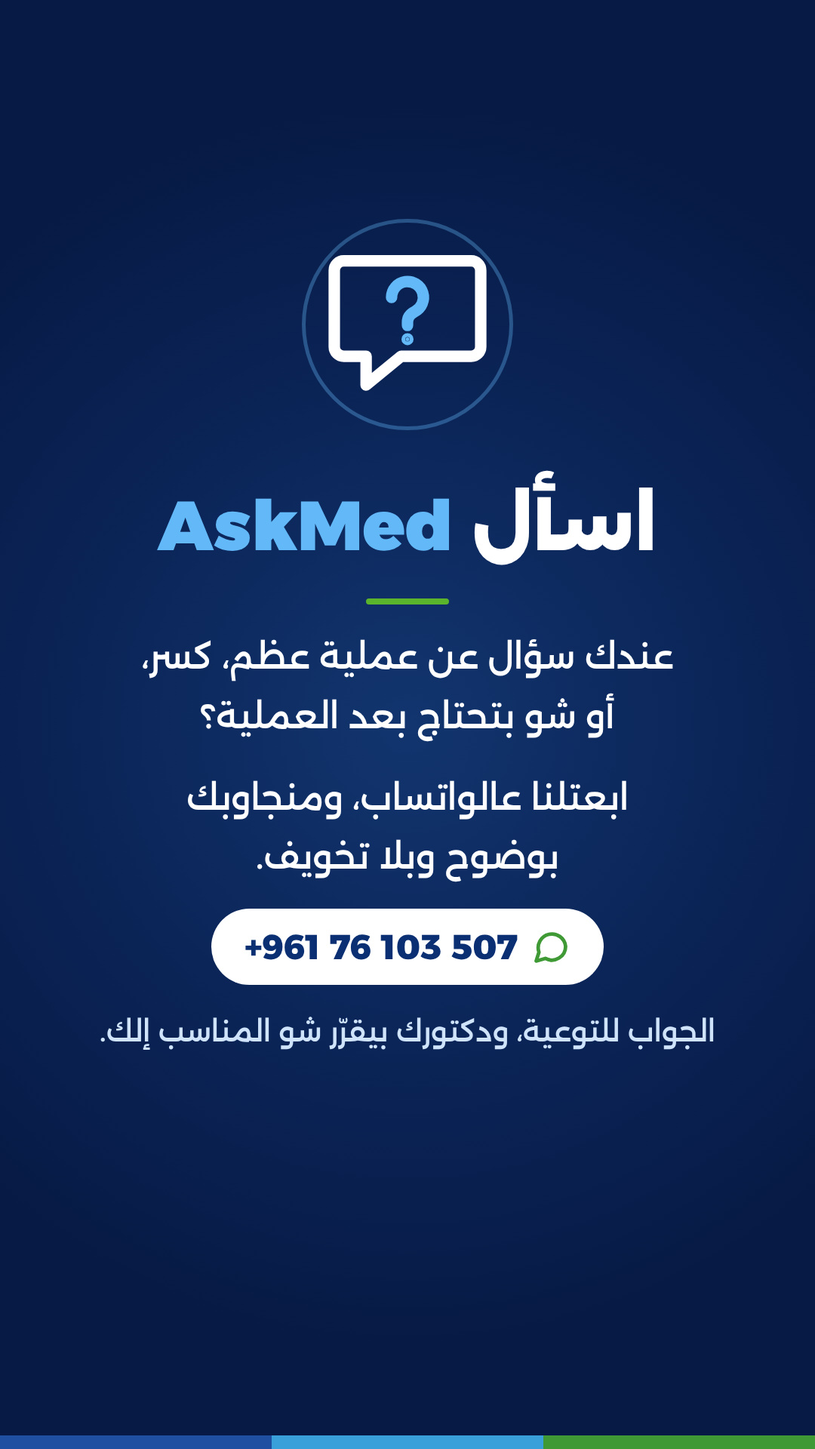
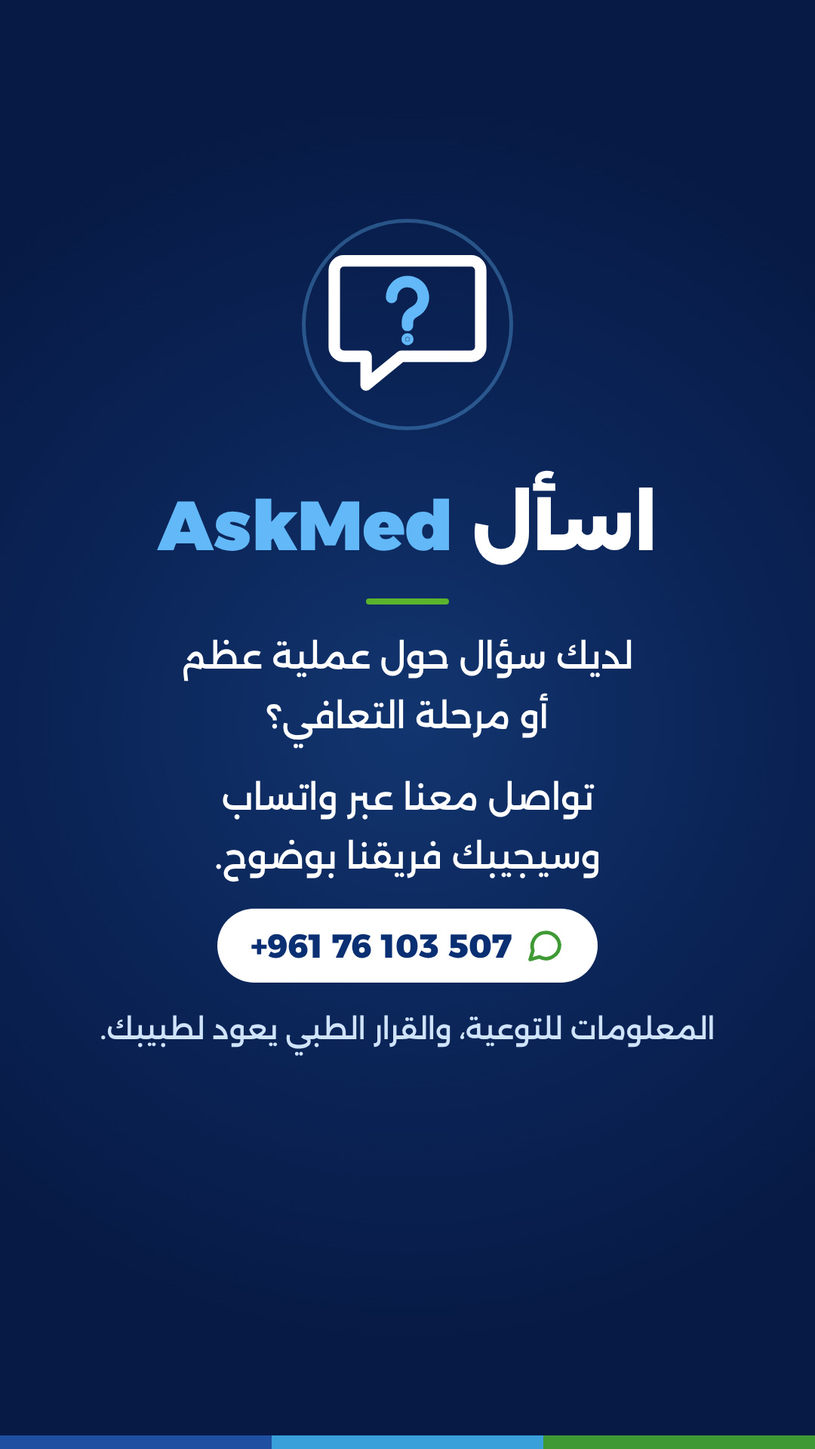
Add AskMed operating-room and recovery pinned posts in a professional tone
Versions G (navy) and H (white): the operating room on the right,
the brand in the middle, recovery with real product photos on the
left. The old family-friend tagline is gone from every version, and
the highlight stories are rewritten in formal Arabic.

Claude-Session: https://claude.ai/code/session_011gFdiWchE1AAy7uyGwssmg

Changed region(s): [[0.1222, 0.4375, 0.8861, 0.7188]]

diff --git a/askmed-instagram/source/compare.html b/askmed-instagram/source/compare.html
@@ -13,15 +13,17 @@
 .c b{font-size:21px;font-weight:600;color:#13213a;white-space:nowrap}
 </style></head><body>
 <div class="sheet" id="compare">
+<div class="v"><div class="h"><div class="k">G</div><div><div class="t">داخل غرفة العمليات، وبعدها خلال التعافي · كحلي</div><div class="d">الجراحة عاليمين، Askmed بالنص، والتعافي بمنتجات حقيقية عالشمال.</div></div></div><div class="grid"><img src="/home/user/invitation/askmed-instagram/versions/G-ghorfet-el-3amaliyyet-w-el-ta3afi/post-3_left.jpg" alt=""><img src="/home/user/invitation/askmed-instagram/versions/G-ghorfet-el-3amaliyyet-w-el-ta3afi/post-2_middle.jpg" alt=""><img src="/home/user/invitation/askmed-instagram/versions/G-ghorfet-el-3amaliyyet-w-el-ta3afi/post-1_right.jpg" alt=""></div></div>
+<div class="v"><div class="h"><div class="k">H</div><div><div class="t">نفس G · أبيض</div><div class="d">نفس الكلام والترتيب، بخلفية فاتحة متل صفحة الدكتورة.</div></div></div><div class="grid"><img src="/home/user/invitation/askmed-instagram/versions/H-ghorfet-el-3amaliyyet-w-el-ta3afi-abyad/post-3_left.jpg" alt=""><img src="/home/user/invitation/askmed-instagram/versions/H-ghorfet-el-3amaliyyet-w-el-ta3afi-abyad/post-2_middle.jpg" alt=""><img src="/home/user/invitation/askmed-instagram/versions/H-ghorfet-el-3amaliyyet-w-el-ta3afi-abyad/post-1_right.jpg" alt=""></div></div>
 <div class="v"><div class="h"><div class="k">A</div><div><div class="t">«اسأل Askmed» · كحلي</div><div class="d">الكلمة مقسومة عـ 3 متل اللوغو، وتحت كل وحدة معلومة.</div></div></div><div class="grid"><img src="/home/user/invitation/askmed-instagram/pinned/post-3_left.jpg" alt=""><img src="/home/user/invitation/askmed-instagram/pinned/post-2_middle.jpg" alt=""><img src="/home/user/invitation/askmed-instagram/pinned/post-1_right.jpg" alt=""></div></div>
-<div class="v"><div class="h"><div class="k">B</div><div><div class="t">«تعرّف على Askmed» · أبيض</div><div class="d">الأقرب لصفحة الدكتورة: أبيض، اسم كبير، وصورة عاليمين.</div></div></div><div class="grid"><img src="/home/user/invitation/askmed-instagram/versions/B-ta3arraf-3ala-askmed/post-3_left.jpg" alt=""><img src="/home/user/invitation/askmed-instagram/versions/B-ta3arraf-3ala-askmed/post-2_middle.jpg" alt=""><img src="/home/user/invitation/askmed-instagram/versions/B-ta3arraf-3ala-askmed/post-1_right.jpg" alt=""></div></div>
+<div class="v"><div class="h"><div class="k">B</div><div><div class="t">«تعرّف على Askmed» · أبيض</div><div class="d">أبيض، اسم كبير، وصورة أدوات جراحية عاليمين.</div></div></div><div class="grid"><img src="/home/user/invitation/askmed-instagram/versions/B-ta3arraf-3ala-askmed/post-3_left.jpg" alt=""><img src="/home/user/invitation/askmed-instagram/versions/B-ta3arraf-3ala-askmed/post-2_middle.jpg" alt=""><img src="/home/user/invitation/askmed-instagram/versions/B-ta3arraf-3ala-askmed/post-1_right.jpg" alt=""></div></div>
 <div class="v"><div class="h"><div class="k">C</div><div><div class="t">«من غرفة العمليات لحدّ ما ترجع تمشي»</div><div class="d">قصة بـ 3 مراحل، وخط بيوصل بيناتهن.</div></div></div><div class="grid"><img src="/home/user/invitation/askmed-instagram/versions/C-men-ghorfet-el-3amaliyyet/post-3_left.jpg" alt=""><img src="/home/user/invitation/askmed-instagram/versions/C-men-ghorfet-el-3amaliyyet/post-2_middle.jpg" alt=""><img src="/home/user/invitation/askmed-instagram/versions/C-men-ghorfet-el-3amaliyyet/post-1_right.jpg" alt=""></div></div>
 <div class="v"><div class="h"><div class="k">D</div><div><div class="t">«عندك سؤال؟ اسألنا.» · فاتح</div><div class="d">أسئلة متل اللي بتوصل عالواتساب، والجواب من Askmed.</div></div></div><div class="grid"><img src="/home/user/invitation/askmed-instagram/versions/D-3endak-so2al/post-3_left.jpg" alt=""><img src="/home/user/invitation/askmed-instagram/versions/D-3endak-so2al/post-2_middle.jpg" alt=""><img src="/home/user/invitation/askmed-instagram/versions/D-3endak-so2al/post-1_right.jpg" alt=""></div></div>
-<div class="v"><div class="h"><div class="k">E</div><div><div class="t">«خطوة بخطوة، معك.» · صورة وحدة عالـ 3</div><div class="d">صورة Higgsfield وحدة عريضة: من التخت، للـ walker، للمشي.</div></div></div><div class="grid"><img src="/home/user/invitation/askmed-instagram/versions/E-khotwe-b-khotwe/post-3_left.jpg" alt=""><img src="/home/user/invitation/askmed-instagram/versions/E-khotwe-b-khotwe/post-2_middle.jpg" alt=""><img src="/home/user/invitation/askmed-instagram/versions/E-khotwe-b-khotwe/post-1_right.jpg" alt=""></div></div>
+<div class="v"><div class="h"><div class="k">E</div><div><div class="t">«خطوة بخطوة، معك.» · صورة وحدة عالـ 3</div><div class="d">من التخت، للـ walker، للمشي.</div></div></div><div class="grid"><img src="/home/user/invitation/askmed-instagram/versions/E-khotwe-b-khotwe/post-3_left.jpg" alt=""><img src="/home/user/invitation/askmed-instagram/versions/E-khotwe-b-khotwe/post-2_middle.jpg" alt=""><img src="/home/user/invitation/askmed-instagram/versions/E-khotwe-b-khotwe/post-1_right.jpg" alt=""></div></div>
 <div class="v"><div class="h"><div class="k">F</div><div><div class="t">«خطوة بخطوة، معك.» · نفس E برجّال</div><div class="d">نفس الفكرة، والعكّازة بدل الـ walker.</div></div></div><div class="grid"><img src="/home/user/invitation/askmed-instagram/versions/F-khotwe-b-khotwe-rajol/post-3_left.jpg" alt=""><img src="/home/user/invitation/askmed-instagram/versions/F-khotwe-b-khotwe-rajol/post-2_middle.jpg" alt=""><img src="/home/user/invitation/askmed-instagram/versions/F-khotwe-b-khotwe-rajol/post-1_right.jpg" alt=""></div></div>
 </div>
 <div class="sheet" id="hlstyles">
-<div class="v"><div class="h"><div class="k">1</div><div><div class="t">highlights · كحلي</div></div></div><div class="row"><div class="c"><div class="ring"><div style="background-image:url(/home/user/invitation/askmed-instagram/highlights/covers/1-min-nehna.jpg)"></div></div><b>مين نحنا</b></div><div class="c"><div class="ring"><div style="background-image:url(/home/user/invitation/askmed-instagram/highlights/covers/2-el-montajet.jpg)"></div></div><b>المنتجات</b></div><div class="c"><div class="ring"><div style="background-image:url(/home/user/invitation/askmed-instagram/highlights/covers/3-is2alna.jpg)"></div></div><b>اسألنا</b></div><div class="c"><div class="ring"><div style="background-image:url(/home/user/invitation/askmed-instagram/highlights/covers/4-el-2iyesat.jpg)"></div></div><b>القياسات</b></div><div class="c"><div class="ring"><div style="background-image:url(/home/user/invitation/askmed-instagram/highlights/covers/5-el-tawsil.jpg)"></div></div><b>التوصيل</b></div><div class="c"><div class="ring"><div style="background-image:url(/home/user/invitation/askmed-instagram/highlights/covers/6-wen-nehna.jpg)"></div></div><b>وين نحنا</b></div></div></div>
-<div class="v"><div class="h"><div class="k">2</div><div><div class="t">highlights · أبيض</div></div></div><div class="row"><div class="c"><div class="ring"><div style="background-image:url(/home/user/invitation/askmed-instagram/highlights/covers-white/1-min-nehna.jpg)"></div></div><b>مين نحنا</b></div><div class="c"><div class="ring"><div style="background-image:url(/home/user/invitation/askmed-instagram/highlights/covers-white/2-el-montajet.jpg)"></div></div><b>المنتجات</b></div><div class="c"><div class="ring"><div style="background-image:url(/home/user/invitation/askmed-instagram/highlights/covers-white/3-is2alna.jpg)"></div></div><b>اسألنا</b></div><div class="c"><div class="ring"><div style="background-image:url(/home/user/invitation/askmed-instagram/highlights/covers-white/4-el-2iyesat.jpg)"></div></div><b>القياسات</b></div><div class="c"><div class="ring"><div style="background-image:url(/home/user/invitation/askmed-instagram/highlights/covers-white/5-el-tawsil.jpg)"></div></div><b>التوصيل</b></div><div class="c"><div class="ring"><div style="background-image:url(/home/user/invitation/askmed-instagram/highlights/covers-white/6-wen-nehna.jpg)"></div></div><b>وين نحنا</b></div></div></div>
-<div class="v"><div class="h"><div class="k">3</div><div><div class="t">highlights · أزرق</div></div></div><div class="row"><div class="c"><div class="ring"><div style="background-image:url(/home/user/invitation/askmed-instagram/highlights/covers-blue/1-min-nehna.jpg)"></div></div><b>مين نحنا</b></div><div class="c"><div class="ring"><div style="background-image:url(/home/user/invitation/askmed-instagram/highlights/covers-blue/2-el-montajet.jpg)"></div></div><b>المنتجات</b></div><div class="c"><div class="ring"><div style="background-image:url(/home/user/invitation/askmed-instagram/highlights/covers-blue/3-is2alna.jpg)"></div></div><b>اسألنا</b></div><div class="c"><div class="ring"><div style="background-image:url(/home/user/invitation/askmed-instagram/highlights/covers-blue/4-el-2iyesat.jpg)"></div></div><b>القياسات</b></div><div class="c"><div class="ring"><div style="background-image:url(/home/user/invitation/askmed-instagram/highlights/covers-blue/5-el-tawsil.jpg)"></div></div><b>التوصيل</b></div><div class="c"><div class="ring"><div style="background-image:url(/home/user/invitation/askmed-instagram/highlights/covers-blue/6-wen-nehna.jpg)"></div></div><b>وين نحنا</b></div></div></div>
+<div class="v"><div class="h"><div class="k">1</div><div><div class="t">highlights · كحلي</div></div></div><div class="row"><div class="c"><div class="ring"><div style="background-image:url(/home/user/invitation/askmed-instagram/highlights/covers/1-min-nehna.jpg)"></div></div><b>من نحن</b></div><div class="c"><div class="ring"><div style="background-image:url(/home/user/invitation/askmed-instagram/highlights/covers/2-el-montajet.jpg)"></div></div><b>المنتجات</b></div><div class="c"><div class="ring"><div style="background-image:url(/home/user/invitation/askmed-instagram/highlights/covers/3-is2alna.jpg)"></div></div><b>اسألنا</b></div><div class="c"><div class="ring"><div style="background-image:url(/home/user/invitation/askmed-instagram/highlights/covers/4-el-2iyesat.jpg)"></div></div><b>المقاسات</b></div><div class="c"><div class="ring"><div style="background-image:url(/home/user/invitation/askmed-instagram/highlights/covers/5-el-tawsil.jpg)"></div></div><b>التوصيل</b></div><div class="c"><div class="ring"><div style="background-image:url(/home/user/invitation/askmed-instagram/highlights/covers/6-wen-nehna.jpg)"></div></div><b>موقعنا</b></div></div></div>
+<div class="v"><div class="h"><div class="k">2</div><div><div class="t">highlights · أبيض</div></div></div><div class="row"><div class="c"><div class="ring"><div style="background-image:url(/home/user/invitation/askmed-instagram/highlights/covers-white/1-min-nehna.jpg)"></div></div><b>من نحن</b></div><div class="c"><div class="ring"><div style="background-image:url(/home/user/invitation/askmed-instagram/highlights/covers-white/2-el-montajet.jpg)"></div></div><b>المنتجات</b></div><div class="c"><div class="ring"><div style="background-image:url(/home/user/invitation/askmed-instagram/highlights/covers-white/3-is2alna.jpg)"></div></div><b>اسألنا</b></div><div class="c"><div class="ring"><div style="background-image:url(/home/user/invitation/askmed-instagram/highlights/covers-white/4-el-2iyesat.jpg)"></div></div><b>المقاسات</b></div><div class="c"><div class="ring"><div style="background-image:url(/home/user/invitation/askmed-instagram/highlights/covers-white/5-el-tawsil.jpg)"></div></div><b>التوصيل</b></div><div class="c"><div class="ring"><div style="background-image:url(/home/user/invitation/askmed-instagram/highlights/covers-white/6-wen-nehna.jpg)"></div></div><b>موقعنا</b></div></div></div>
+<div class="v"><div class="h"><div class="k">3</div><div><div class="t">highlights · أزرق</div></div></div><div class="row"><div class="c"><div class="ring"><div style="background-image:url(/home/user/invitation/askmed-instagram/highlights/covers-blue/1-min-nehna.jpg)"></div></div><b>من نحن</b></div><div class="c"><div class="ring"><div style="background-image:url(/home/user/invitation/askmed-instagram/highlights/covers-blue/2-el-montajet.jpg)"></div></div><b>المنتجات</b></div><div class="c"><div class="ring"><div style="background-image:url(/home/user/invitation/askmed-instagram/highlights/covers-blue/3-is2alna.jpg)"></div></div><b>اسألنا</b></div><div class="c"><div class="ring"><div style="background-image:url(/home/user/invitation/askmed-instagram/highlights/covers-blue/4-el-2iyesat.jpg)"></div></div><b>المقاسات</b></div><div class="c"><div class="ring"><div style="background-image:url(/home/user/invitation/askmed-instagram/highlights/covers-blue/5-el-tawsil.jpg)"></div></div><b>التوصيل</b></div><div class="c"><div class="ring"><div style="background-image:url(/home/user/invitation/askmed-instagram/highlights/covers-blue/6-wen-nehna.jpg)"></div></div><b>موقعنا</b></div></div></div>
 </div></body></html>

diff --git a/askmed-instagram/source/pro.html b/askmed-instagram/source/pro.html
@@ -1,0 +1,179 @@
+<!doctype html>
+<html lang="ar" dir="rtl">
+<head>
+<meta charset="utf-8">
+<link href="https://fonts.googleapis.com/css2?family=Alexandria:wght@400;500;600;700;800;900&display=swap" rel="stylesheet">
+<style>
+  :root { --deep: #02164a; --ink: #0A2F72; --logo-navy: #0A4A9C; --logo-sky: #2F9FE4; --sky: #63B8F7; --green: #5BB52C; --soft: #CFE3FA; }
+  * { box-sizing: border-box; }
+  html, body { margin: 0; padding: 0; background: #000; }
+  .pano { position: relative; width: 3240px; height: 1440px; overflow: hidden; font-family: 'Alexandria', sans-serif; }
+  .abs { position: absolute; }
+  .ltr { direction: ltr; unicode-bidi: isolate; }
+  .tile { position: absolute; top: 0; width: 1080px; height: 1440px; }
+  .icon { position: absolute; top: 74px; height: 96px; }
+  .eyebrow { position: absolute; top: 190px; width: 1080px; padding: 0 100px; text-align: right; font-size: 40px; font-weight: 700; letter-spacing: 0; }
+  .eyebrow span { display: inline-flex; align-items: center; gap: 14px; }
+  .eyebrow i { display: inline-block; width: 46px; height: 6px; border-radius: 3px; }
+  .head { position: absolute; top: 250px; width: 1080px; padding: 0 100px; text-align: right; font-weight: 900; font-size: 112px; line-height: 1.3; white-space: nowrap; }
+  .list { position: absolute; width: 1080px; padding: 0 100px; display: flex; flex-direction: column; gap: 20px; }
+  .list div { display: flex; align-items: center; gap: 22px; font-size: 42px; font-weight: 600; line-height: 1.45; }
+  .list b { flex: 0 0 auto; width: 18px; height: 18px; border-radius: 50%; }
+  .cards { position: absolute; width: 1080px; padding: 0 100px; display: grid; grid-template-columns: 1fr 1fr; gap: 26px; }
+  .card { border-radius: 30px; overflow: hidden; }
+  .card img { width: 100%; height: 222px; object-fit: cover; display: block; }
+  .card div { padding: 14px 20px 18px; font-size: 34px; font-weight: 700; text-align: center; }
+  .note { position: absolute; width: 1080px; padding: 0 100px; text-align: right; font-size: 34px; font-weight: 500; }
+  .center { position: absolute; left: 1080px; width: 1080px; display: flex; flex-direction: column; align-items: center; text-align: center; }
+  .center .lock { display: flex; align-items: center; gap: 24px; direction: ltr; }
+  .center .lock .i { height: 170px; }
+  .center .lock .w { height: 118px; }
+  .center .rule { width: 120px; height: 8px; border-radius: 4px; margin: 54px 0 46px; }
+  .center .line { font-size: 58px; font-weight: 800; line-height: 1.55; }
+  .center .en { margin-top: 30px; font-size: 34px; font-weight: 600; letter-spacing: 0.5px; }
+  .flow { position: absolute; left: 1080px; width: 1080px; top: 1060px; display: flex; align-items: center; justify-content: center; gap: 26px; font-size: 38px; font-weight: 700; }
+  .flow .pill { border-radius: 999px; padding: 16px 34px; }
+  .bar { position: absolute; left: 0; right: 0; bottom: 0; height: 130px; }
+  .cell { position: absolute; top: 0; height: 118px; width: 1080px; display: flex; align-items: center; justify-content: center; gap: 20px; white-space: nowrap; font-weight: 700; font-size: 38px; }
+  .sep { width: 8px; height: 8px; border-radius: 50%; background: #3aa0da; }
+  .stripe { position: absolute; left: 0; right: 0; bottom: 0; height: 12px; display: flex; direction: ltr; }
+  .stripe div { flex: 1; }
+
+  /* ---------- G · navy ---------- */
+  #G { background: var(--deep); color: #fff; }
+  #G .t1 { left: 0; background: radial-gradient(circle at 50% 60%, #0a2a6e 0%, #04195a 45%, #02164a 85%); }
+  #G .t2 { left: 1080px; background: radial-gradient(circle at 50% 45%, #0c2f78 0%, #05205f 42%, #02164a 82%); }
+  #G .t3 { left: 2160px; background: #011035; }
+  #G .photo { position: absolute; left: 2160px; top: 110px; width: 1080px; height: 1446px; }
+  #G .shade { position: absolute; left: 2160px; top: 0; width: 1080px; height: 1440px;
+              background: linear-gradient(to bottom, rgba(2,15,51,0.9) 0%, rgba(2,15,51,0.55) 28%, rgba(2,15,51,0) 40%, rgba(2,15,51,0) 58%, rgba(2,15,51,0.92) 76%); }
+  #G .eyebrow { color: var(--sky); }
+  #G .eyebrow i { background: var(--sky); }
+  #G .acc { color: var(--sky); }
+  #G .list b { background: var(--green); }
+  #G .card { background: #fff; color: var(--ink); }
+  #G .note { color: var(--soft); }
+  #G .center .rule { background: var(--green); }
+  #G .center .en { color: var(--sky); }
+  #G .flow .pill { background: rgba(99,184,247,0.14); border: 2px solid rgba(99,184,247,0.5); }
+  #G .bar { background: #fff; color: var(--ink); }
+
+  /* ---------- H · white ---------- */
+  #H { background: #fff; color: var(--ink); }
+  #H .t1 { left: 0; background: #F4F8FD; }
+  #H .t2 { left: 1080px; background: #fff; }
+  #H .t3 { left: 2160px; background: #eaf1f8; }
+  #H .photo { position: absolute; left: 2160px; top: 110px; width: 1080px; height: 1446px; }
+  #H .shade { position: absolute; left: 2160px; top: 0; width: 1080px; height: 1440px;
+              background: linear-gradient(to bottom, rgba(255,255,255,0.95) 0%, rgba(255,255,255,0.6) 28%, rgba(255,255,255,0) 40%, rgba(255,255,255,0) 58%, rgba(255,255,255,0.94) 76%); }
+  #H .eyebrow { color: var(--logo-sky); }
+  #H .eyebrow i { background: var(--logo-sky); }
+  #H .acc { color: var(--logo-sky); }
+  #H .list b { background: var(--green); }
+  #H .card { background: #fff; color: var(--ink); box-shadow: 0 18px 40px -24px rgba(10,47,114,0.45); }
+  #H .note { color: #4a5d7e; }
+  #H .center .rule { background: var(--green); }
+  #H .center .en { color: var(--logo-sky); }
+  #H .flow .pill { background: #EEF6FD; border: 2px solid #CFE3FA; }
+  #H .bar { background: var(--ink); color: #fff; }
+</style>
+</head>
+<body>
+
+<!-- ======================= G ======================= -->
+<div class="pano" id="G">
+  <div class="tile t1"></div>
+  <div class="tile t2"></div>
+  <div class="tile t3"></div>
+  <img class="photo" src="assets/or-dark.jpg" alt="">
+  <div class="shade"></div>
+
+  <img class="icon" src="assets/icon-white.png" alt="" style="left: 72px">
+  <img class="icon" src="assets/icon-white.png" alt="" style="left: 2232px">
+
+  <!-- tile 3: in the operating room -->
+  <div class="eyebrow" style="left: 2160px"><span><i></i>الجراحة</span></div>
+  <div class="head" style="left: 2160px">داخل<br><span class="acc">غرفة العمليات</span></div>
+  <div class="list" style="left: 2160px; top: 980px;">
+    <div><b></b>زرعات وأدوات جراحة العظام</div>
+    <div><b></b>تجهيز الأطقم الجراحية لكل حالة</div>
+    <div><b></b>دعم فني للجرّاح أثناء العملية</div>
+  </div>
+
+  <!-- tile 2: the brand -->
+  <div class="center" style="top: 330px;">
+    <div class="lock"><img class="i" src="assets/icon-white.png" alt=""><img class="w" src="assets/wordmark-white.png" alt="Askmed"></div>
+    <div class="rule"></div>
+    <div class="line">شريك الجرّاح في غرفة العمليات<br>وشريك المريض في التعافي</div>
+    <div class="en ltr">Orthopaedic surgery &amp; recovery · Since 2006</div>
+  </div>
+  <div class="flow"><span class="pill">الجراحة</span><svg width="70" height="30" viewBox="0 0 70 30" aria-hidden="true"><path d="M66 15H6M18 4 5 15l13 11" fill="none" stroke="#63B8F7" stroke-width="4" stroke-linecap="round" stroke-linejoin="round"/></svg><span class="pill">التعافي</span></div>
+
+  <!-- tile 1: after surgery -->
+  <div class="eyebrow" style="left: 0"><span><i></i>التعافي</span></div>
+  <div class="head" style="left: 0;">وبعد العملية<br><span class="acc">خلال التعافي</span></div>
+  <div class="cards" style="left: 0; top: 600px;">
+    <div class="card"><img src="assets/p-knee.jpg" alt=""><div>دعامات الركبة</div></div>
+    <div class="card"><img src="assets/p-back.jpg" alt="" style="object-position: 50% 30%"><div>مشدّات الظهر</div></div>
+    <div class="card"><img src="assets/p-neck.jpg" alt="" style="object-position: 50% 45%"><div>أطواق الرقبة</div></div>
+    <div class="card"><img src="assets/p-wrist.jpg" alt=""><div>دعامات المعصم</div></div>
+  </div>
+
+  <div class="bar">
+    <div class="cell" style="left: 0"><span class="ltr">@askmedlb</span><span class="sep"></span><span class="ltr" style="font-weight:500">askmedlb.com</span></div>
+    <div class="cell" style="left: 1080px">
+      <svg width="42" height="42" viewBox="0 0 24 24" fill="none" stroke="#3f9a35" stroke-width="2.2" stroke-linecap="round" stroke-linejoin="round" aria-hidden="true"><path d="M21 11.5a8.4 8.4 0 0 1-12.4 7.4L3 20.5l1.7-5.4A8.4 8.4 0 1 1 21 11.5z"></path></svg>
+      <span class="ltr">+961 76 103 507</span></div>
+    <div class="cell" style="left: 2160px"><span>جراحة العظام والتعافي</span><span class="sep"></span><span style="font-weight:500">منذ 2006</span></div>
+    <div class="stripe"><div style="background:#1f4fa0"></div><div style="background:#3aa0da"></div><div style="background:#3f9a35"></div></div>
+  </div>
+</div>
+
+<!-- ======================= H ======================= -->
+<div class="pano" id="H">
+  <div class="tile t1"></div>
+  <div class="tile t2"></div>
+  <div class="tile t3"></div>
+  <img class="photo" src="assets/or-light.jpg" alt="">
+  <div class="shade"></div>
+
+  <img class="icon" src="assets/icon-dark.png" alt="" style="left: 72px">
+  <img class="icon" src="assets/icon-dark.png" alt="" style="left: 2232px">
+
+  <div class="eyebrow" style="left: 2160px"><span><i></i>الجراحة</span></div>
+  <div class="head" style="left: 2160px">داخل<br><span class="acc">غرفة العمليات</span></div>
+  <div class="list" style="left: 2160px; top: 980px;">
+    <div><b></b>زرعات وأدوات جراحة العظام</div>
+    <div><b></b>تجهيز الأطقم الجراحية لكل حالة</div>
+    <div><b></b>دعم فني للجرّاح أثناء العملية</div>
+  </div>
+
+  <div class="center" style="top: 330px;">
+    <div class="lock"><img class="i" src="assets/icon-dark.png" alt=""><img class="w" src="assets/wordmark-dark.png" alt="Askmed"></div>
+    <div class="rule"></div>
+    <div class="line">شريك الجرّاح في غرفة العمليات<br>وشريك المريض في التعافي</div>
+    <div class="en ltr">Orthopaedic surgery &amp; recovery · Since 2006</div>
+  </div>
+  <div class="flow"><span class="pill">الجراحة</span><svg width="70" height="30" viewBox="0 0 70 30" aria-hidden="true"><path d="M66 15H6M18 4 5 15l13 11" fill="none" stroke="#2F9FE4" stroke-width="4" stroke-linecap="round" stroke-linejoin="round"/></svg><span class="pill">التعافي</span></div>
+
+  <div class="eyebrow" style="left: 0"><span><i></i>التعافي</span></div>
+  <div class="head" style="left: 0;">وبعد العملية<br><span class="acc">خلال التعافي</span></div>
+  <div class="cards" style="left: 0; top: 600px;">
+    <div class="card"><img src="assets/p-knee.jpg" alt=""><div>دعامات الركبة</div></div>
+    <div class="card"><img src="assets/p-back.jpg" alt="" style="object-position: 50% 30%"><div>مشدّات الظهر</div></div>
+    <div class="card"><img src="assets/p-neck.jpg" alt="" style="object-position: 50% 45%"><div>أطواق الرقبة</div></div>
+    <div class="card"><img src="assets/p-wrist.jpg" alt=""><div>دعامات المعصم</div></div>
+  </div>
+
+  <div class="bar">
+    <div class="cell" style="left: 0"><span class="ltr">@askmedlb</span><span class="sep"></span><span class="ltr" style="font-weight:500">askmedlb.com</span></div>
+    <div class="cell" style="left: 1080px">
+      <svg width="42" height="42" viewBox="0 0 24 24" fill="none" stroke="#7fd174" stroke-width="2.2" stroke-linecap="round" stroke-linejoin="round" aria-hidden="true"><path d="M21 11.5a8.4 8.4 0 0 1-12.4 7.4L3 20.5l1.7-5.4A8.4 8.4 0 1 1 21 11.5z"></path></svg>
+      <span class="ltr">+961 76 103 507</span></div>
+    <div class="cell" style="left: 2160px"><span>جراحة العظام والتعافي</span><span class="sep"></span><span style="font-weight:500">منذ 2006</span></div>
+    <div class="stripe"><div style="background:#1f4fa0"></div><div style="background:#3aa0da"></div><div style="background:#3f9a35"></div></div>
+  </div>
+</div>
+
+</body>
+</html>

diff --git a/askmed-instagram/source/highlights.html b/askmed-instagram/source/highlights.html
@@ -52,7 +52,7 @@
   .story li .d { flex: 0 0 auto; width: 20px; height: 20px; border-radius: 50%; background: var(--green); }
   .pill {
     display: inline-flex; align-items: center; gap: 18px; background: #fff; color: var(--ink);
-    border-radius: 999px; padding: 22px 44px; font-size: 46px; font-weight: 800;
+    border-radius: 999px; padding: 22px 44px; font-size: 44px; font-weight: 800; white-space: nowrap;
   }
   .ltr { direction: ltr; unicode-bidi: isolate; }
   .foot {
@@ -107,11 +107,11 @@
 <div class="frame story">
   <div class="badge"><img src="assets/icon-white.png" alt=""></div>
   <div class="body">
-    <h1>مين <span class="acc ltr">AskMed</span>؟</h1>
+    <h1>من <span class="acc">نحن</span></h1>
     <div class="rule"></div>
-    <p>من 2006 مع دكاترة الشمال<br>بغرفة العمليات.</p>
-    <p>ومعك بالبيت كمان: مشدّات ومخدّات<br>طبية للتعافي، وناس بتعرف تنصحك.</p>
-    <p class="small">صاحب العيلة اللي بيفهم بالعظم.</p>
+    <p>منذ 2006، نزوّد جرّاحي العظام بالزرعات<br>والأدوات الجراحية داخل غرفة العمليات.</p>
+    <p>وبعد العملية، نوفّر مستلزمات التعافي<br>مع مساعدة في اختيار المقاس المناسب.</p>
+    <p class="small">جراحة العظام والتعافي · طرابلس، لبنان</p>
   </div>
   <div class="foot"><img class="i" src="assets/icon-white.png" alt=""><img class="w" src="assets/wordmark-white.png" alt="Askmed"></div>
   <div class="stripe"><div style="background:#1f4fa0"></div><div style="background:#3aa0da"></div><div style="background:#3f9a35"></div></div>
@@ -121,16 +121,16 @@
 <div class="frame story">
   <div class="badge"><svg viewBox="0 0 64 64" fill="none" stroke="#fff" stroke-width="3.6" stroke-linecap="round" stroke-linejoin="round" aria-hidden="true"><path d="M13 22h38l-3.2 32.5a2 2 0 0 1-2 1.8H18.2a2 2 0 0 1-2-1.8z"/><path d="M24 26v-7a8 8 0 0 1 16 0v7"/><path d="M27 40l4 4 7-8" stroke="#5BB52C"/></svg></div>
   <div class="body">
-    <h1>شو <span class="acc">عنّا؟</span></h1>
+    <h1><span class="acc">منتجاتنا</span></h1>
     <div class="rule"></div>
     <ul>
       <li><span class="d"></span><span>الرقبة</span></li>
-      <li><span class="d"></span><span>الضهر والعمود الفقري</span></li>
-      <li><span class="d"></span><span>من الكتف لليد</span></li>
-      <li><span class="d"></span><span>الرجل والساق</span></li>
-      <li><span class="d"></span><span>مخدّات وفرشات طبية</span></li>
+      <li><span class="d"></span><span>الظهر والعمود الفقري</span></li>
+      <li><span class="d"></span><span>الكتف واليد</span></li>
+      <li><span class="d"></span><span>الركبة والساق</span></li>
+      <li><span class="d"></span><span>المخدّات الطبية</span></li>
     </ul>
-    <div class="pill"><span>كل المنتجات عـ</span><span class="ltr">askmedlb.com</span></div>
+    <div class="pill"><span>جميع المنتجات على</span><span class="ltr">askmedlb.com</span></div>
   </div>
   <div class="stripe"><div style="background:#1f4fa0"></div><div style="background:#3aa0da"></div><div style="background:#3f9a35"></div></div>
 </div>
@@ -141,10 +141,10 @@
   <div class="body">
     <h1>اسأل <span class="acc ltr">AskMed</span></h1>
     <div class="rule"></div>
-    <p>عندك سؤال عن عملية عظم، كسر،<br>أو شو بتحتاج بعد العملية؟</p>
-    <p>ابعتلنا عالواتساب، ومنجاوبك<br>بوضوح وبلا تخويف.</p>
+    <p>لديك سؤال حول عملية عظم<br>أو مرحلة التعافي؟</p>
+    <p>تواصل معنا عبر واتساب<br>وسيجيبك فريقنا بوضوح.</p>
     <div class="pill"><svg width="52" height="52" viewBox="0 0 24 24" fill="none" stroke="#3f9a35" stroke-width="2.2" stroke-linecap="round" stroke-linejoin="round" aria-hidden="true"><path d="M21 11.5a8.4 8.4 0 0 1-12.4 7.4L3 20.5l1.7-5.4A8.4 8.4 0 1 1 21 11.5z"></path></svg><span class="ltr">+961 76 103 507</span></div>
-    <p class="small">الجواب للتوعية، ودكتورك بيقرّر شو المناسب إلك.</p>
+    <p class="small">المعلومات للتوعية، والقرار الطبي يعود لطبيبك.</p>
   </div>
   <div class="stripe"><div style="background:#1f4fa0"></div><div style="background:#3aa0da"></div><div style="background:#3f9a35"></div></div>
 </div>
@@ -153,14 +153,14 @@
 <div class="frame story">
   <div class="badge"><svg viewBox="0 0 64 64" fill="none" stroke="#fff" stroke-width="3.6" stroke-linecap="round" stroke-linejoin="round" aria-hidden="true"><path d="M8 44L44 8l12 12-36 36z"/><path d="M16.2 35.8l5 5M27.2 24.8l5 5M38.2 13.8l5 5" stroke="#5BB52C"/><path d="M21.7 30.3l3 3M32.7 19.3l3 3" stroke="#63B8F7"/></svg></div>
   <div class="body">
-    <h1>كيف تعرف <span class="acc">قياسك؟</span></h1>
+    <h1>اختيار <span class="acc">المقاس</span></h1>
     <div class="rule"></div>
     <ul>
-      <li><span class="n">1</span><span>جيب شريط قياس طري</span></li>
-      <li><span class="n">2</span><span>قيس بالـ <span class="ltr">cm</span> متل ما بيقلّك الدليل</span></li>
-      <li><span class="n">3</span><span>ابعتلنا الرقم عالواتساب</span></li>
+      <li><span class="n">1</span><span>استخدم شريط قياس مرن</span></li>
+      <li><span class="n">2</span><span>قِس بالسنتيمتر حسب الدليل</span></li>
+      <li><span class="n">3</span><span>أرسل القياس عبر واتساب</span></li>
     </ul>
-    <div class="pill"><span>الدليل كامل:</span><span class="ltr">askmedlb.com/guide</span></div>
+    <div class="pill"><span>الدليل الكامل:</span><span class="ltr">askmedlb.com/guide</span></div>
   </div>
   <div class="stripe"><div style="background:#1f4fa0"></div><div style="background:#3aa0da"></div><div style="background:#3f9a35"></div></div>
 </div>
@@ -172,10 +172,10 @@
     <h1>التوصيل <span class="acc">والدفع</span></h1>
     <div class="rule"></div>
     <ul>
-      <li><span class="d"></span><span>توصيل لكل لبنان بـ <span class="ltr">3$</span></span></li>
-      <li><span class="d"></span><span>مجاني فوق الـ <span class="ltr">50$</span></span></li>
-      <li><span class="d"></span><span>بتدفع كاش بس يوصلك الطلب</span></li>
-      <li><span class="d"></span><span>تبديل خلال 7 أيام إذا القياس ما زبط</span></li>
+      <li><span class="d"></span><span>توصيل إلى جميع المناطق بـ <span class="ltr">3$</span></span></li>
+      <li><span class="d"></span><span>مجاناً للطلبات فوق <span class="ltr">50$</span></span></li>
+      <li><span class="d"></span><span>الدفع نقداً عند الاستلام</span></li>
+      <li><span class="d"></span><span>استبدال المقاس خلال 7 أيام</span></li>
     </ul>
   </div>
   <div class="foot"><img class="i" src="assets/icon-white.png" alt=""><img class="w" src="assets/wordmark-white.png" alt="Askmed"></div>
@@ -186,10 +186,10 @@
 <div class="frame story">
   <div class="badge"><svg viewBox="0 0 64 64" fill="none" stroke="#fff" stroke-width="3.6" stroke-linecap="round" stroke-linejoin="round" aria-hidden="true"><path d="M32 57S15 41.5 15 27.5a17 17 0 0 1 34 0C49 41.5 32 57 32 57z"/><circle cx="32" cy="27" r="6.5" stroke="#5BB52C"/></svg></div>
   <div class="body">
-    <h1>وين <span class="acc">نحنا؟</span></h1>
+    <h1><span class="acc">موقعنا</span></h1>
     <div class="rule"></div>
     <p>طرابلس، أبي سمرا، المنار</p>
-    <p>من 8 الصبح لـ 4:30 بعد الضهر</p>
+    <p>من 8:00 صباحاً حتى 4:30 مساءً</p>
     <div class="pill"><svg width="52" height="52" viewBox="0 0 24 24" fill="none" stroke="#3f9a35" stroke-width="2.2" stroke-linecap="round" stroke-linejoin="round" aria-hidden="true"><path d="M21 11.5a8.4 8.4 0 0 1-12.4 7.4L3 20.5l1.7-5.4A8.4 8.4 0 1 1 21 11.5z"></path></svg><span class="ltr">+961 76 103 507</span></div>
     <p class="small ltr">askmedlb.com</p>
   </div>

diff --git a/askmed-instagram/source/versions.html b/askmed-instagram/source/versions.html
@@ -104,7 +104,7 @@
     <div class="stripe" style="top: 0"><div style="background:#1f4fa0"></div><div style="background:#3aa0da"></div><div style="background:#3f9a35"></div></div>
     <div class="cell" style="left: 0; top: 12px; height: 128px"><span class="ltr">@askmedlb</span><span class="sep"></span><span class="ltr" style="font-weight:500">askmedlb.com</span></div>
     <div class="cell" style="left: 1080px; top: 12px; height: 128px"><span class="ltr">+961 76 103 507</span><span class="sep"></span><span style="font-weight:500">للأسئلة والطلبات</span></div>
-    <div class="cell" style="left: 2160px; top: 12px; height: 128px"><span>صاحب العيلة اللي بيفهم بالعظم</span></div>
+    <div class="cell" style="left: 2160px; top: 12px; height: 128px"><span>جراحة العظام والتعافي</span><span class="sep"></span><span style="font-weight:500">منذ 2006</span></div>
   </div>
 </div>
 
@@ -139,7 +139,7 @@
     <div class="cell" style="left: 1080px; top: 0; height: 108px">
       <svg width="40" height="40" viewBox="0 0 24 24" fill="none" stroke="#7fd174" stroke-width="2.2" stroke-linecap="round" stroke-linejoin="round" aria-hidden="true"><path d="M21 11.5a8.4 8.4 0 0 1-12.4 7.4L3 20.5l1.7-5.4A8.4 8.4 0 1 1 21 11.5z"></path></svg>
       <span class="ltr">+961 76 103 507</span></div>
-    <div class="cell" style="left: 2160px; top: 0; height: 108px"><span>صاحب العيلة اللي بيفهم بالعظم</span></div>
+    <div class="cell" style="left: 2160px; top: 0; height: 108px"><span>جراحة العظام والتعافي</span><span class="sep"></span><span style="font-weight:500">منذ 2006</span></div>
     <div class="stripe" style="bottom: 0"><div style="background:#1f4fa0"></div><div style="background:#3aa0da"></div><div style="background:#3f9a35"></div></div>
   </div>
 </div>
@@ -169,7 +169,7 @@
   <div class="bar">
     <div class="cell" style="left: 0; top: 0; height: 118px"><span class="ltr">@askmedlb</span><span class="sep"></span><span class="ltr" style="font-weight:500">askmedlb.com</span></div>
     <div class="cell" style="left: 1080px; top: 0; height: 118px"><span>عظم، كسور، وتعافي</span><span class="sep"></span><span style="font-weight:500">من 2006</span></div>
-    <div class="cell" style="left: 2160px; top: 0; height: 118px"><span>صاحب العيلة اللي بيفهم بالعظم</span></div>
+    <div class="cell" style="left: 2160px; top: 0; height: 118px"><span>جراحة العظام والتعافي</span><span class="sep"></span><span style="font-weight:500">منذ 2006</span></div>
     <div class="stripe" style="bottom: 0"><div style="background:#1f4fa0"></div><div style="background:#3aa0da"></div><div style="background:#3f9a35"></div></div>
   </div>
 </div>

diff --git a/askmed-instagram/source/pinned.html b/askmed-instagram/source/pinned.html
@@ -125,7 +125,7 @@
       <span class="ltr">+961 76 103 507</span><span class="sep"></span><span class="light">للأسئلة والطلبات</span>
     </div>
     <div class="barcell" style="left: 2160px">
-      <span>صاحب العيلة اللي بيفهم بالعظم</span><span class="sep"></span><span class="light">من 2006</span>
+      <span>جراحة العظام والتعافي</span><span class="sep"></span><span class="light">منذ 2006</span>
     </div>
     <div class="stripe"><div style="background:#1f4fa0"></div><div style="background:#3aa0da"></div><div style="background:#3f9a35"></div></div>
   </div>

diff --git a/askmed-instagram/source/gen_sheets.py b/askmed-instagram/source/gen_sheets.py
@@ -1,7 +1,8 @@
 # Builds compare.html (all pinned versions) and hl-styles.html (highlight cover styles).
 import json, sys
 O = '/home/user/invitation/askmed-instagram'
-versions = json.load(open('versions.json', encoding='utf-8'))
+versions = json.load(open(sys.argv[1] if len(sys.argv) > 1 else 'versions.json', encoding='utf-8'))
+out = sys.argv[2] if len(sys.argv) > 2 else 'compare.html'
 head = '''<!doctype html><html lang="ar" dir="rtl"><head><meta charset="utf-8">
 <link href="https://fonts.googleapis.com/css2?family=Alexandria:wght@400;600;800;900&display=swap" rel="stylesheet">
 <style>*{box-sizing:border-box}html,body{margin:0;background:#fff}
@@ -22,7 +23,7 @@ for v in versions:
     parts.append(f'<div class="v"><div class="h"><div class="k">{v["key"]}</div><div><div class="t">{v["title"]}</div>'
                  f'<div class="d">{v["desc"]}</div></div></div><div class="grid">{imgs}</div></div>')
 parts.append('</div>')
-labels = ['مين نحنا', 'المنتجات', 'اسألنا', 'القياسات', 'التوصيل', 'وين نحنا']
+labels = ['من نحن', 'المنتجات', 'اسألنا', 'المقاسات', 'التوصيل', 'موقعنا']
 slugs = ['1-min-nehna', '2-el-montajet', '3-is2alna', '4-el-2iyesat', '5-el-tawsil', '6-wen-nehna']
 styles = [('1', 'كحلي', 'covers'), ('2', 'أبيض', 'covers-white'), ('3', 'أزرق', 'covers-blue')]
 parts.append('<div class="sheet" id="hlstyles">')
@@ -31,4 +32,4 @@ for k, name, d in styles:
                     for s, l in zip(slugs, labels))
     parts.append(f'<div class="v"><div class="h"><div class="k">{k}</div><div><div class="t">highlights · {name}</div></div></div><div class="row">{cells}</div></div>')
 parts.append('</div></body></html>')
-open('compare.html', 'w', encoding='utf-8').write('\n'.join(parts))
+open(out, 'w', encoding='utf-8').write('\n'.join(parts))
